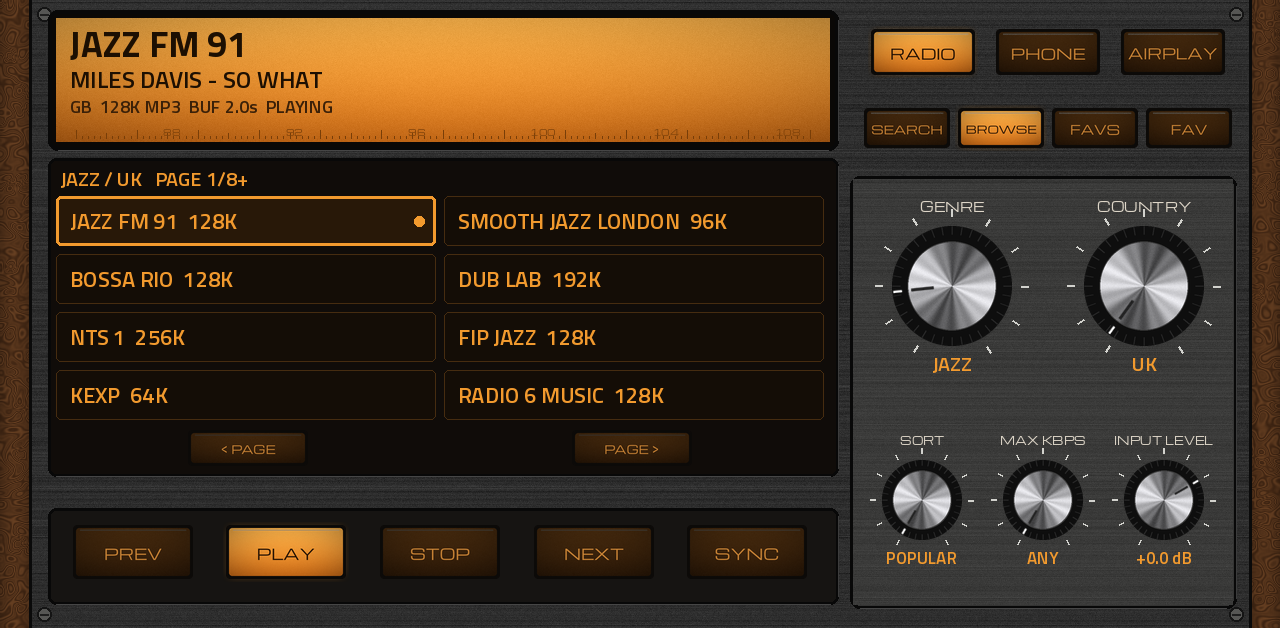
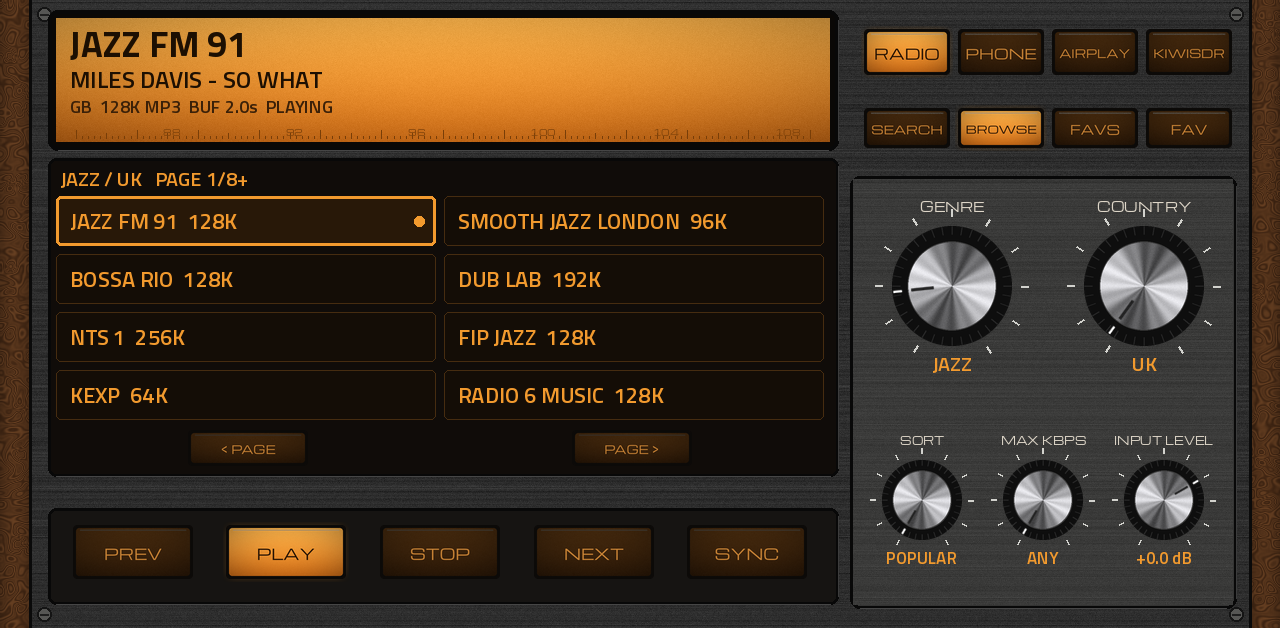
KIWISDR: tune round the band, tests, GCC build, docs, 0.2.0
- TUNE goes round its band (0..499 holds every band), so the knob never
  stops dead and MPC's value stays the plugin's; 499 so a data wheel click
  is a nudge, not a whole-number jump.
- test/run_tests.sh section 3: unit checks and the stand-in receiver
  (pitch follows tuning, full receiver, receiver-ended session not
  reopened, stalled network retried). host_test skips its generic sweep
  for nudge_pct params, which are checked on their own.
- build.sh: ARM_GCC=<prefix> builds with a GCC cross toolchain (glibc
  2.31 sysroot, static libstdc++) when Zig isn't available.
- README, CHANGELOG, catalog entry, screenshots; version 0.2.0.

Claude-Session: https://claude.ai/code/session_01JoZZ4tZXRfq7hKAep78PLY

Changed region(s): [[0.6562, 0.0303, 0.9688, 0.121], [0.7812, 0.6959, 0.8125, 0.7261]]

diff --git a/src/engine.cc b/src/engine.cc
@@ -135,9 +135,17 @@ const KiwiBand& kband(const Inst* s) { return KIWI_BANDS[std::max(0, std::min(KI
 int kband_steps(const KiwiBand& b) { return b.nlist ? b.nlist - 1 : (int)lround((b.hi - b.lo) / b.step); }
 int kband_default(const KiwiBand& b) { return b.nlist ? 0 : (int)lround((b.def - b.lo) / b.step); }
 
+// TUNE moves one step (or one list entry) a detent and goes round the band: its 0..KIWI_TUNE_MAX holds every band at
+// least once, so a knob never stops dead at a band's end (and MPC's view of it stays the plugin's).
+int kiwi_step(const Inst* s) {
+  int n = kband_steps(kband(s)) + 1;
+  int t = std::max(0, (int)lroundf(s->v[P_KIWI_TUNE]));
+  return t % n;
+}
+
 double kiwi_khz(const Inst* s) {
   const KiwiBand& b = kband(s);
-  int t = std::max(0, std::min((int)lroundf(s->v[P_KIWI_TUNE]), kband_steps(b)));
+  int t = kiwi_step(s);
   double f = b.nlist ? b.list[t] : b.lo + t * b.step;
   f += ((int)lroundf(s->v[P_KIWI_FINE]) - 50) * 0.02;
   return f < 0 ? 0 : f;
@@ -400,7 +408,11 @@ void set_kiwi_mode(Inst* s, int m) {
 // BAND: the band's own frequency, mode and the fine tuning at zero
 void kiwi_band_changed(Inst* s) {
   const KiwiBand& b = kband(s);
-  s->v[P_KIWI_TUNE] = (float)kband_default(b);
+  int n = kband_steps(b) + 1, d = kband_default(b);
+  int t = d + (int)lround((KIWI_TUNE_MAX / 2.0 - d) / n) * n;   // the band's own frequency, near the middle of the knob
+  while (t > KIWI_TUNE_MAX) t -= n;
+  while (t < 0) t += n;
+  s->v[P_KIWI_TUNE] = (float)t;
   s->v[P_KIWI_FINE] = 50.f;
   s->kmode = b.mode;
   moved(s, "kiwi_tune");
@@ -1230,10 +1242,6 @@ void set_param(void* p, const char* k, const char* val) {
   switch (d.kind) {
     case PK_KNOB: {
       float f = knob_value(i, (float)atof(val));
-      if (i == P_KIWI_TUNE) {   // not past the band's end: the knob stops there
-        float top = (float)kband_steps(kband(s));
-        if (f > top) { f = top; moved(s, "kiwi_tune"); }
-      }
       bool changed = s->v[i] != f;
       s->v[i] = f;
       if (changed) {

diff --git a/tools/gen_params.py b/tools/gen_params.py
@@ -138,7 +138,8 @@ VIEWS = [("view", "VIEW", ["LIST", "KEYS", "PHONE", "AIRPLAY", "KIWI"])]
 
 # ---- KIWISDR (0.2.0): appended after everything above, so the older indices stay where projects saved them.
 # The bands BAND steps through: (name, low kHz, high kHz, step kHz, default mode, default kHz), or a list band:
-# (name, [kHz, ...], mode). TUNE is the step (or the list entry) within the band; FINE adds -1..+1 kHz in 20 Hz.
+# (name, [kHz, ...], mode). TUNE is the step (or the list entry) within the band, going round it (engine.cc kiwi_step);
+# FINE adds -1..+1 kHz in 20 Hz.
 KIWI_MODES = ["AM", "USB", "LSB", "CW", "NFM"]
 KIWI_BANDS = [
     ("LF 10-150", 10, 150, 0.5, "USB", 77.5), ("LW", 153, 279, 9, "AM", 198), ("NDB 280-530", 280, 530, 1, "CW", 400),
@@ -156,11 +157,11 @@ KIWI_BANDS = [
     ("VOLMET", [3413, 5505, 6604, 8957, 10051, 11253, 13264], "USB"),
     ("WEATHER FAX", [2616.6, 3853.1, 4608.1, 7878.1, 8038.1, 13880.6], "USB"),
 ]
-KIWI_TUNE_MAX = 500     # the most steps a band has (15M HAM: 450)
+KIWI_TUNE_MAX = 499     # the most steps a band has (15M HAM: 450); not a multiple of 100, so a data wheel click (1/100) is a nudge
 # knobs that are not 0..1: (key, name, default, options or None, extra params.json fields)
 KNOBS2 = [
     ("kiwi_band", "BAND", 8, [b[0] for b in KIWI_BANDS], {"qlink_ticks": 2}),
-    ("kiwi_tune", "TUNE", 34, None, {"min": 0, "max": KIWI_TUNE_MAX, "display": "int", "nudge_pct": 10,
+    ("kiwi_tune", "TUNE", 278, None, {"min": 0, "max": KIWI_TUNE_MAX, "display": "int", "nudge_pct": 10,
                                      "dynamic_display": True}),
     ("kiwi_fine", "FINE", 50, None, {"min": 0, "max": 100, "display": "int", "nudge_pct": 10, "dynamic_display": True}),
     ("kiwi_bw", "FILTER", 0.6, None, {"min": 0, "max": 1, "dynamic_display": True}),

diff --git a/src/param_defs.h b/src/param_defs.h
@@ -227,7 +227,7 @@ static const ParamDef PARAM_DEFS[P_COUNT] = {
     {"row8", "STATION 8", PK_ROW, 0, 0.0f, 0, 0.0f, 1.0f},
     {"view", "VIEW", PK_VIEW, 5, 0.0f, OPTS_VIEW, 0.0f, 1.0f},
     {"kiwi_band", "BAND", PK_KNOB, 31, 8.0f, OPTS_KIWI_BAND, 0.0f, 1.0f},
-    {"kiwi_tune", "TUNE", PK_KNOB, 0, 34.0f, 0, 0.0f, 500.0f},
+    {"kiwi_tune", "TUNE", PK_KNOB, 0, 278.0f, 0, 0.0f, 499.0f},
     {"kiwi_fine", "FINE", PK_KNOB, 0, 50.0f, 0, 0.0f, 100.0f},
     {"kiwi_bw", "FILTER", PK_KNOB, 0, 0.6f, 0, 0.0f, 1.0f},
     {"src_kiwi", "KIWISDR", PK_KEY, 0, 0.0f, 0, 0.0f, 1.0f},
@@ -241,7 +241,7 @@ static const ParamDef PARAM_DEFS[P_COUNT] = {
 /* KIWISDR: the bands (a list band has nlist > 0 and its frequencies in list) and the modes */
 enum { KM_AM, KM_USB, KM_LSB, KM_CW, KM_NFM };
 #define KIWI_NUM_MODES 5
-#define KIWI_TUNE_MAX 500
+#define KIWI_TUNE_MAX 499
 static const char *const KIWI_MODE_NAMES[] = {"AM", "USB", "LSB", "CW", "NFM"};
 typedef struct { const char *name; double lo, hi, step; int mode; double def; int nlist; const double *list; } KiwiBand;
 static const double KIWI_LIST_28[] = {2500.0, 3330.0, 4996.0, 5000.0, 7850.0, 9996.0, 10000.0, 14670.0, 14996.0, 15000.0, 20000.0};

diff --git a/third_party/mpc-vst-plugins/tools/host_test.c b/third_party/mpc-vst-plugins/tools/host_test.c
@@ -467,7 +467,8 @@ int main(void) {
         break;
     }
     for (int i = 0; i < NPARAMS; i++)   /* the first whole-number param */
-        if (!PARAMS[i].nopts && PARAMS[i].int_display && PARAMS[i].qlink_ticks <= 1 && PARAMS[i].max - PARAMS[i].min >= 2) { step_tests(a, i, "int", (int)(PARAMS[i].max - PARAMS[i].min)); break; }
+        /* nudge_pct params are checked above: by design a slow sweep of small moves steps once per move there */
+        if (!PARAMS[i].nopts && PARAMS[i].int_display && PARAMS[i].qlink_ticks <= 1 && PARAMS[i].nudge_pct <= 0 && PARAMS[i].max - PARAMS[i].min >= 2) { step_tests(a, i, "int", (int)(PARAMS[i].max - PARAMS[i].min)); break; }
     if (pop >= 0) {
         int t = PARAMS[pop].popup_of, n = PARAMS[t].nopts;
         a->setP(a, pop, 1); CHECK(a->getP(a, pop) > 0.5f, "popup %s opens", PARAMS[pop].key);

diff --git a/tools/preview.py b/tools/preview.py
@@ -53,7 +53,7 @@ KIWI_SAMPLE = {
     "row1": (0, "PALLAS, LAPLAND  FI  2/8", 1), "row2": (0, "PARAINEN  FI  1/4", 0), "row3": (0, "LOPPI (OH1CT)  FI  FULL", 0),
     "row4": (0, "ASIKKALA  FI  0/4", 0), "row5": (0, "KUOPIO  FI  3/8", 0), "row6": (0, "SM2BYC  SE  1/4", 0),
     "row7": (0, "LA2G  NO  OFFLINE", 0), "row8": (0, "SOENDERBORG  DK  2/4", 0),
-    "kiwi_band": (8 / 30, "49M", 0), "kiwi_tune": (34 / 500, "6070.00 kHz", 0), "kiwi_fine": (0.5, "0 Hz", 0),
+    "kiwi_band": (8 / 30, "49M", 0), "kiwi_tune": (278 / 500, "6070.00 kHz", 0), "kiwi_fine": (0.5, "0 Hz", 0),
     "kiwi_bw": (0.6, "8.4 kHz", 0), "src_radio": (0, "", 0), "src_kiwi": (0, "", 1), "km_am": (0, "", 1), "top": (0, "", 0),
 }
 for i in (1, 3, 4, 6, 8, 9, 11, 12, 14, 16):

diff --git a/src/et.h b/src/et.h
@@ -18,7 +18,7 @@
 #include <vector>
 
 #define ET_SR 44100
-#define ET_VERSION "0.1.0"
+#define ET_VERSION "0.2.0"
 
 namespace et {
 

diff --git a/README.md b/README.md
@@ -1,14 +1,16 @@
 # Evil Tuner XXL
 
-**Internet radio, your phone and AirPlay, played straight into an Akai Force / MPC track, and bent out of shape on the way.**
+**Internet radio, shortwave, your phone and AirPlay, played straight into an Akai Force / MPC track, and bent out of shape on the way.**
 
 Evil Tuner XXL is a native MPC OS VST2 instrument for the Akai Force and the standalone MPCs (Gen1, MPC OS 3.x). It
-brings three sources into an MPC track:
+brings four sources into an MPC track:
 
 - **RADIO**: 30,000+ internet stations from [Radio Browser](https://www.radio-browser.info), browsed by genre, country,
   popularity and bitrate, or searched by name;
 - **PHONE**: any sound from an Android phone, sent over Wi-Fi with Roc (the open-source Roc Droid app);
-- **AIRPLAY**: any sound from an iPhone, iPad or Mac, sent with AirPlay (nothing to install).
+- **AIRPLAY**: any sound from an iPhone, iPad or Mac, sent with AirPlay (nothing to install);
+- **KIWISDR**: live shortwave, 10 kHz to 30 MHz, from public [KiwiSDR](http://kiwisdr.com) receivers around the world:
+  broadcasters, hams, time signals, weather fax, beacons, tuned from the MPC.
 
 Then it runs that sound through a granular voice, a filter, eleven character stages, a saturator, an Erica Synths-style
 delay, plate / reverse / room reverb with shimmer, a 16-step trance gate, a stutter, a MIDI duck, a tempo-synced looper
@@ -28,6 +30,8 @@ hardware, only the idea of it.
 | ![GATE](docs/img/GATE.png) | ![TAPE](docs/img/TAPE.png) |
 | **MOD** | **RADIO: search keyboard / PHONE** |
 | ![MOD](docs/img/MOD.png) | ![keyboard](docs/img/RADIO_keys.png) ![phone](docs/img/RADIO_phone.png) |
+| **RADIO: KIWISDR** | |
+| ![KIWISDR](docs/img/RADIO_kiwi.png) | |
 
 *The pages as the generator draws them (sample values). RADIO is the classic tuner: walnut, aluminium knobs, the amber
 window and push buttons. The effect pages are the modern modules.*
@@ -42,20 +46,21 @@ window and push buttons. The effect pages are the modern modules.*
 4. [RADIO: playing stations](#radio-playing-stations)
 5. [PHONE: Android with Roc](#phone-android-with-roc)
 6. [AIRPLAY: iPhone, iPad, Mac](#airplay-iphone-ipad-mac)
-7. [On the road: a phone hotspot](#on-the-road-a-phone-hotspot)
-8. [PET: the grains](#pet-the-grains)
-9. [FX: character, saturator, limiter](#fx-character-saturator-limiter)
-10. [SPACE: Erica delay and reverb](#space-erica-delay-and-reverb)
-11. [GATE: trance gate, stutter, duck](#gate-trance-gate-stutter-duck)
-12. [TAPE: the rolling tape and the looper](#tape-the-rolling-tape-and-the-looper)
-13. [MOD: LFOs, follower, envelope](#mod-lfos-follower-envelope)
-14. [Pads and MIDI](#pads-and-midi)
-15. [Recording into the MPC](#recording-into-the-mpc)
-16. [Patch ideas](#patch-ideas)
-17. [Privacy and network](#privacy-and-network)
-18. [Troubleshooting](#troubleshooting)
-19. [Building from source](#building-from-source)
-20. [Credits and licences](#credits-and-licences)
+7. [KIWISDR: shortwave from public receivers](#kiwisdr-shortwave-from-public-receivers)
+8. [On the road: a phone hotspot](#on-the-road-a-phone-hotspot)
+9. [PET: the grains](#pet-the-grains)
+10. [FX: character, saturator, limiter](#fx-character-saturator-limiter)
+11. [SPACE: Erica delay and reverb](#space-erica-delay-and-reverb)
+12. [GATE: trance gate, stutter, duck](#gate-trance-gate-stutter-duck)
+13. [TAPE: the rolling tape and the looper](#tape-the-rolling-tape-and-the-looper)
+14. [MOD: LFOs, follower, envelope](#mod-lfos-follower-envelope)
+15. [Pads and MIDI](#pads-and-midi)
+16. [Recording into the MPC](#recording-into-the-mpc)
+17. [Patch ideas](#patch-ideas)
+18. [Privacy and network](#privacy-and-network)
+19. [Troubleshooting](#troubleshooting)
+20. [Building from source](#building-from-source)
+21. [Credits and licences](#credits-and-licences)
 
 ---
 
@@ -117,7 +122,7 @@ presets. A station is never played on its own when a project loads: press **PLAY
 country, bitrate, codec, the seconds of audio buffered and the state (CONNECTING, BUFFERING, PLAYING, WAITING FOR PLAY,
 STOPPED, ERROR).
 
-**Sources** (top right): **RADIO**, **PHONE**, **AIRPLAY**. One at a time.
+**Sources** (top right): **RADIO**, **PHONE**, **AIRPLAY**, **KIWISDR**. One at a time.
 
 **The list**: eight stations per page, with their bitrate. Tap one to play it; the one on air is lit, with a lamp.
 **< PAGE** and **PAGE >** move through the list. Paging past what is loaded fetches the next 64 stations. The line above
@@ -199,12 +204,47 @@ This is classic AirPlay (AirPlay 1) audio, the same thing that works with older 
 audio can use it. The iPhone's volume slider is ignored on purpose: **INPUT LEVEL** sets the level. AirPlay adds a short
 delay (Apple's own buffer, about two seconds), so it's for playing material in, not for live playing on the phone.
 
+## KIWISDR: shortwave from public receivers
+
+![KIWISDR](docs/img/RADIO_kiwi.png)
+
+A [KiwiSDR](http://kiwisdr.com) is a shortwave receiver (10 kHz to 30 MHz) that its owner shares on the internet, usually
+four or eight listeners at a time. Hundreds are public. KIWISDR plays one of them into the track: you pick the receiver
+and the frequency, the receiver demodulates and sends the audio (about 12 kHz wide, mono on both channels).
+
+1. Press **KIWISDR** (top right). The list shows receivers, eight per page: the name, the country and, once asked, how
+   many listen (**2/8**), **FULL** or **OFFLINE**. **< PAGE** / **PAGE >** go through the list.
+2. Tap a receiver: it connects and plays. **PREV** / **NEXT** go to the receiver before / after; **STOP** ends the session.
+3. Tune with the knobs (they take the RADIO page's genre and country places; Q-Link page **RADIO 2** has them too):
+
+| Knob | |
+|---|---|
+| **BAND** | where to listen: LF, LW, MW, the broadcast bands **120M** to **11M**, the ham bands **160M** to **10M**, **CB**, **NDB** beacons, and three lists: **TIME SIGNALS**, **VOLMET** (aviation weather), **WEATHER FAX**. A band sets its usual mode and a busy frequency. |
+| **TUNE** | one channel per detent (5 kHz in a broadcast band, 9 kHz on LW / MW, 1 kHz on the ham bands, the next entry in a list); it goes round the band |
+| **FINE** | -1 .. +1 kHz in 20 Hz steps: for SSB voices that sound like ducks, or to put a carrier where you like it |
+| **FILTER** | the bandwidth, within the mode's range (AM 3..12 kHz, SSB 1.5..3.6 kHz, CW 100..1000 Hz, NFM 6..12 kHz) |
+
+The mode keys (in the second row in KIWISDR): **AM**, **USB**, **LSB**, **CW**, **NFM**. The window shows the frequency and
+mode, the receiver, the S-meter and dBm, the bandwidth and the buffer. Tuning goes to the receiver at once; you hear it
+about half a second later (the buffer that keeps the internet's hiccups out).
+
+**Your own receivers**: `kiwisdr.txt` in the plugin's `user_data/` folder (made on first use, with examples) lists yours
+first: one per line, the address as the browser shows it and a name (`http://my-kiwi.example.org:8073 MY RECEIVER`).
+Plain http only. Find receivers at [kiwisdr.com/public](http://kiwisdr.com/public/) or
+[receiverbook.de](https://www.receiverbook.de). Reopen the plugin after editing.
+
+**Manners**: a receiver's slots are shared by everyone. The session ends with STOP, another source or another receiver,
+and it is never reopened by itself after the receiver ended it (receivers have time and inactivity limits; when it says
+THE RECEIVER ENDED THE SESSION, pick another or press PLAY later). Only a dropped network is retried, three times. The
+list asks only the receivers on screen for their status, at most every five minutes each. On a phone's mobile data a
+session uses about 22 MB an hour.
+
 ## On the road: a phone hotspot
 
 A phone's hotspot **is** a Wi-Fi network, with the phone as its router: join the MPC to it (MPC Preferences → Wi-Fi) and
 everything works as at home.
 
-- **RADIO** uses the phone's mobile data. Use **MAX KBPS** to stay on light streams.
+- **RADIO** uses the phone's mobile data. Use **MAX KBPS** to stay on light streams. **KIWISDR** uses about 22 MB an hour.
 - **PHONE (Roc)**: the hotspot phone sends to the MPC's address on the hotspot network (the page shows it). Works.
 - **AIRPLAY from the iPhone that is also the hotspot**: whether iOS lists AirPlay receivers on its own hotspot hasn't been
   confirmed on a device yet. If Evil Tuner XXL doesn't appear, use another device's hotspot, or a Wi-Fi network.
@@ -353,7 +393,7 @@ The plugin's track takes MIDI from the pads, a keyboard or a sequence.
 Set the pads to play notes 36–43 (the usual first eight pads of bank A).
 
 Notes on **DUCK MIDI CH** (with DUCK ON) only trigger the duck. A program change or CC does nothing; everything else is on
-the Q-Links (each page has its own: RADIO, PET 1–2, FX, SPACE, GATE, TAPE, MOD 1–3).
+the Q-Links (each page has its own: RADIO 1–2, PET 1–2, FX, SPACE, GATE, TAPE, MOD 1–3).
 
 ## Recording into the MPC
 
@@ -404,6 +444,10 @@ Start from the defaults (a new instance), then:
 - **PHONE** and **AIRPLAY** only **listen** on the local network (Roc: UDP 10001–10003; AirPlay: TCP 5000, UDP 6001 and up,
   mDNS 5353 to appear in the AirPlay list). Nothing is sent anywhere. Roc Droid is open source with no tracking code; the
   MPC's address never leaves the local network.
+- **KIWISDR** talks to the receiver you pick (its WebSocket on the receiver's own port, usually 8073: the commands for
+  frequency and mode, a keepalive once a second; it shows "EvilTunerXXL" as the listener's name in the receiver's user
+  list), and to the receivers on screen for their `/status` page. The receiver sees the MPC's internet address, as it
+  does any listener's. Nothing else.
 - The receivers stop when you switch source or close the plugin, and they are tied to the plugin: if MPC quits, they quit.
 
 ## Troubleshooting
@@ -416,21 +460,28 @@ Start from the defaults (a new instance), then:
 | PHONE: nothing arrives | Same network? The address in Roc Droid exactly as the page shows it? Some public / hotel Wi-Fi blocks devices from talking to each other: use a phone hotspot. |
 | PHONE RECEIVER STOPPED (PORT IN USE?) | Another plugin instance has PHONE on: one PHONE receiver per MPC. |
 | AIRPLAY: the MPC isn't in the list | Same network? Wait ten seconds after pressing AIRPLAY. Some routers block AirPlay discovery between devices. |
+| KIWISDR: RECEIVER FULL | All its listener slots are taken: pick another (the list shows FULL once it has asked). |
+| KIWISDR: THE RECEIVER ENDED THE SESSION | Its time or inactivity limit: pick another receiver, or press PLAY again later. |
+| KIWISDR: ONE CONNECTION PER ADDRESS | The receiver allows one listener per internet address and someone on your network (a browser tab?) uses it. |
+| KIWISDR: a receiver OFFLINE, or CAN'T FIND / DOESN'T ANSWER | Owners move or retire receivers: pick another, or add your own in `kiwisdr.txt`. |
 | No sound with GRAIN MIX up | FREEZE on an empty buffer: turn FREEZE off for a few seconds. |
 | The sound is too loud / clipping | The LIMITER is on by default; lower VOLUME or INPUT LEVEL. |
 
 Logs on the device (for a bug report): `/tmp/eviltuner.log`, and `/tmp/eviltuner-ffmpeg.log`, `-roc.log`, `-airplay.log`.
-Favourites and settings: `user_data/` inside the plugin's folder (the installer keeps it on upgrades).
+Favourites, your KiwiSDR list and settings: `user_data/` inside the plugin's folder (the installer keeps it on upgrades).
 
 ## Building from source
 
-Needs Linux, python3 (Pillow, numpy, scipy), gcc, and Zig (`pip install ziglang`); for the helpers also git, make,
-autotools, cmake, scons, ragel, pkg-config and llvm (`llvm-strip`, `llvm-objcopy`).
+Needs Linux, python3 (Pillow, numpy, scipy), gcc, and Zig (`pip install ziglang`), or instead of Zig an
+arm-linux-gnueabihf GCC with a glibc 2.31 sysroot (`ARM_GCC=<path>/<triple>- ./build.sh`, e.g.
+[tttapa/docker-arm-cross-toolchain](https://github.com/tttapa/docker-arm-cross-toolchain)'s `armv6-rpi-linux-gnueabihf`);
+for the helpers also git, make, autotools, cmake, scons, ragel, pkg-config and llvm (`llvm-strip`, `llvm-objcopy`).
 
 ```sh
 helpers/build_helpers.sh   # once: ffmpeg, et_roc, shairport-sync (static, armv7), from fixed tags on GitHub
 ./build.sh                 # the plugin (armv7, glibc 2.31) and its skin -> build/package/
-test/run_tests.sh          # offline tests on x86 under ASan / UBSan (a local stream through the real radio path)
+test/run_tests.sh          # offline tests on x86 under ASan / UBSan (a local stream through the real radio path,
+                           # a stand-in KiwiSDR receiver through the real KIWISDR path)
 python3 tools/preview.py out/   # the pages as pictures
 ```
 
@@ -441,6 +492,12 @@ drawn over it.
 Status of 0.1.0: tested offline (the engine and wrapper on x86 under ASan / UBSan; the ARM build loaded and run under QEMU;
 the radio path end to end with a local stream; the ARM Roc receiver with a Roc sender; MP3, AAC and Ogg through the ARM
 decoder; the ARM AirPlay receiver starting). **Not yet tested on a device.**
+
+Status of 0.2.0 (KIWISDR): the protocol checked against a live receiver from a browser (the commands, the MSG and SND
+messages, the ADPCM decoder's state carried over, matching the uncompressed stream's level); the engine on x86 against a
+stand-in receiver (pitch follows the tuning through ADPCM and plain blocks, a full receiver, a session the receiver
+ends, a stalled network); the ARM build checked for its target (armv7, VFPv3-D16, no NEON, glibc 2.29 at most). **Not yet
+tested on a device.**
 
 ## Credits and licences
 
@@ -456,6 +513,8 @@ decoder; the ARM AirPlay receiver starting). **Not yet tested on a device.**
   with libuv MIT and OpenFEC CeCILL-C), **shairport-sync** 4.3.7 (MIT, with mbedTLS Apache-2.0, libconfig LGPL-2.1,
   popt MIT). Their sources: the tags in `helpers/build_helpers.sh`.
 - Stations: **Radio Browser** (radio-browser.info), a community directory. Each station's stream belongs to its owner.
+- **KiwiSDR** (John Seamons, jks-prv, kiwisdr.com): the receivers and their open protocol, as its open-source client
+  **kiwiclient** speaks it; no code taken. Each receiver belongs to its owner, who shares it.
 - Fonts: Michroma and Titillium Web (SIL OFL 1.1).
 
 Evil Tuner XXL is free software under the **GNU GPL v3.0 or later** (see `LICENSE`).

diff --git a/CHANGELOG.md b/CHANGELOG.md
@@ -1,5 +1,14 @@
 # Changelog
 
+## 0.2.0
+- **KIWISDR**, a fourth source: live shortwave (10 kHz to 30 MHz) from public KiwiSDR receivers, tuned from the MPC.
+  A list of public receivers (plus your own in `user_data/kiwisdr.txt`) with their listeners, FULL or OFFLINE; BAND
+  (broadcast and ham bands, LF / LW / MW, CB, NDB beacons, time signals, VOLMET, weather fax), TUNE (one channel a
+  detent), FINE (20 Hz steps), FILTER and the AM / USB / LSB / CW / NFM keys; the S-meter in the window; Q-Link page
+  RADIO 2. A session the receiver ends is not reopened; a dropped network is retried three times.
+- The new parameters come after the old ones: projects saved with 0.1.x open with their values.
+- `build.sh` can build with a GCC cross toolchain instead of Zig (`ARM_GCC=...`).
+
 ## 0.1.1
 - Packed under **L'Cronx**: the plugin folder is now `L'Cronx - VST - Evil Tuner XXL` and MPC lists the maker as L'Cronx. Nothing else
   changed from 0.1.0. If you installed 0.1.0, run its `uninstall.sh` first (copy out anything you saved inside the plugin
